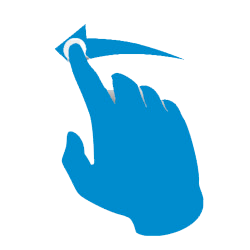
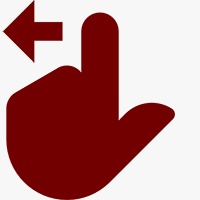
ajustes

diff --git a/client/src/pages/Home.vue b/client/src/pages/Home.vue
@@ -39,9 +39,9 @@
       <div class="text-subtitle1 text-secondary q-mr-xs">Power by</div>
       <div class="text-subtitle1 text-primary">Latam IT Academícela</div>
     </div>
-    <q-dialog v-model="info">
+    <q-dialog full-width v-model="info">
       <q-carousel v-model="slide" style="height: auto; border-radius: 24px;" infinite>
-        <q-carousel-slide :name="1" class="q-pa-sm">
+       <!--  <q-carousel-slide :name="1" class="q-pa-sm">
           <div class="text-center text-primary text-h5 text-bold q-pa-xs">Bienvenido</div>
           <div class="text-subtitle2 text-center">Estimado alumno o alumna, te damos la bienvenida al curso “Manejo de Herramientas para un Liderazgo Efectivo”.</div>
           <div class="text-subtitle2 text-center">Cada uno de los módulos que verás, está compuesto por: Videos explicativos, textos de Resumen y Glosario de términos, Actividades Interactivas y Casos de Estudio.</div>
@@ -50,11 +50,11 @@
           <q-card-actions class="col2 full-width" align="center">
             <q-btn class="q-pa-xs text-subtitle1 text-bold" color="primary" label="Siguiente" @click="slide++" no-caps style="width: 50%; border-radius: 10px;"/>
           </q-card-actions>
-        </q-carousel-slide>
+        </q-carousel-slide> -->
         <q-carousel-slide :name="2">
           <div class="text-center text-primary text-h5 text-bold q-pa-xs">¡Recuerda!</div>
           <div class="column items-center justify-center">
-            <q-img src="Mano.png" style="width: 250px"/>
+            <q-img src="Mano.png" style="width: 150px"/>
           </div>
           <div class="row justify-center">
             <div class="text-subtitle1 text-primary q-pr-xs text-bold">Desliza</div>
@@ -86,7 +86,7 @@
 export default {
   data () {
     return {
-      slide: 1,
+      slide: 2,
       info: null,
       modulos: [],
       leftDrawerOpen: false,

diff --git a/client/src/pages/Splash.vue b/client/src/pages/Splash.vue
@@ -1022,7 +1022,11 @@ export default {
     clearInterval(this.timer)
   },
   created () {
-    this.timer = setInterval(this.ejecutar, 4000)
+    this.info = new Audio(require('../../public/DEMO.mp3'))
+    // a.loop = true
+    console.log('pre')
+    this.info.play()
+    this.timer = setInterval(this.ejecutar, 6000)
   },
   cancelAutoUpdate () { clearInterval(this.timer) }
 }

diff --git a/client/src/pages/Inicio.vue b/client/src/pages/Inicio.vue
@@ -1,6 +1,6 @@
 <template>
   <q-avatar square class="window-width window-height" @click="accion()">
-    <q-img src="EJEMPLO-RESEÑA-LIDERAZGO.jpg" class="full-height"/>
+    <q-img src="liderazgoefectivo.png" class="full-height"/>
   </q-avatar>
 </template>
 <script>
